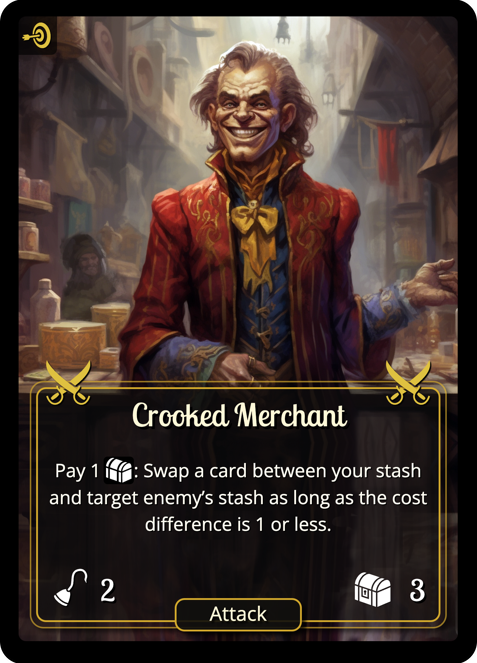
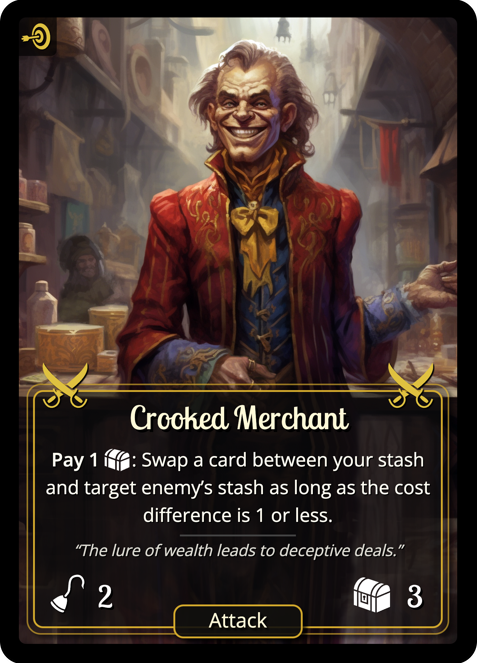
Fix a couple of typos

diff --git a/deckhand/cards.en.js b/deckhand/cards.en.js
@@ -590,7 +590,7 @@ var cards = [
 
 {
     'title': 'Desperate Chase',
-    'text': 'You and an enemy reveal the top 3 cards from your decks. If you revealed more Attacks: \
+    'text': 'You and an enemy reveal the top 3 cards from your decks. If you reveal more Attacks: \
     Put a supply card that costs 4 or less into your stash.',
     //'reduced-font-size': '9.3px',
     //'flavor': 'Sails ablaze, cannons roar, a final duel in pursuit.',
@@ -641,7 +641,7 @@ var cards = [
 {
     'title': 'Crooked Merchant',
     'text': 'Pay 1 :Treasure:: Swap a card between your stash and target enemy’s stash as long as the cost difference is 1 or less.',
-    'flavor': 'The lures of wealth leads to deceptive deals.',
+    'flavor': 'The lure of wealth leads to deceptive deals.',
     'img': 'attacks/merchant.png',
     'type': 'attack',
     'victory': '2',
